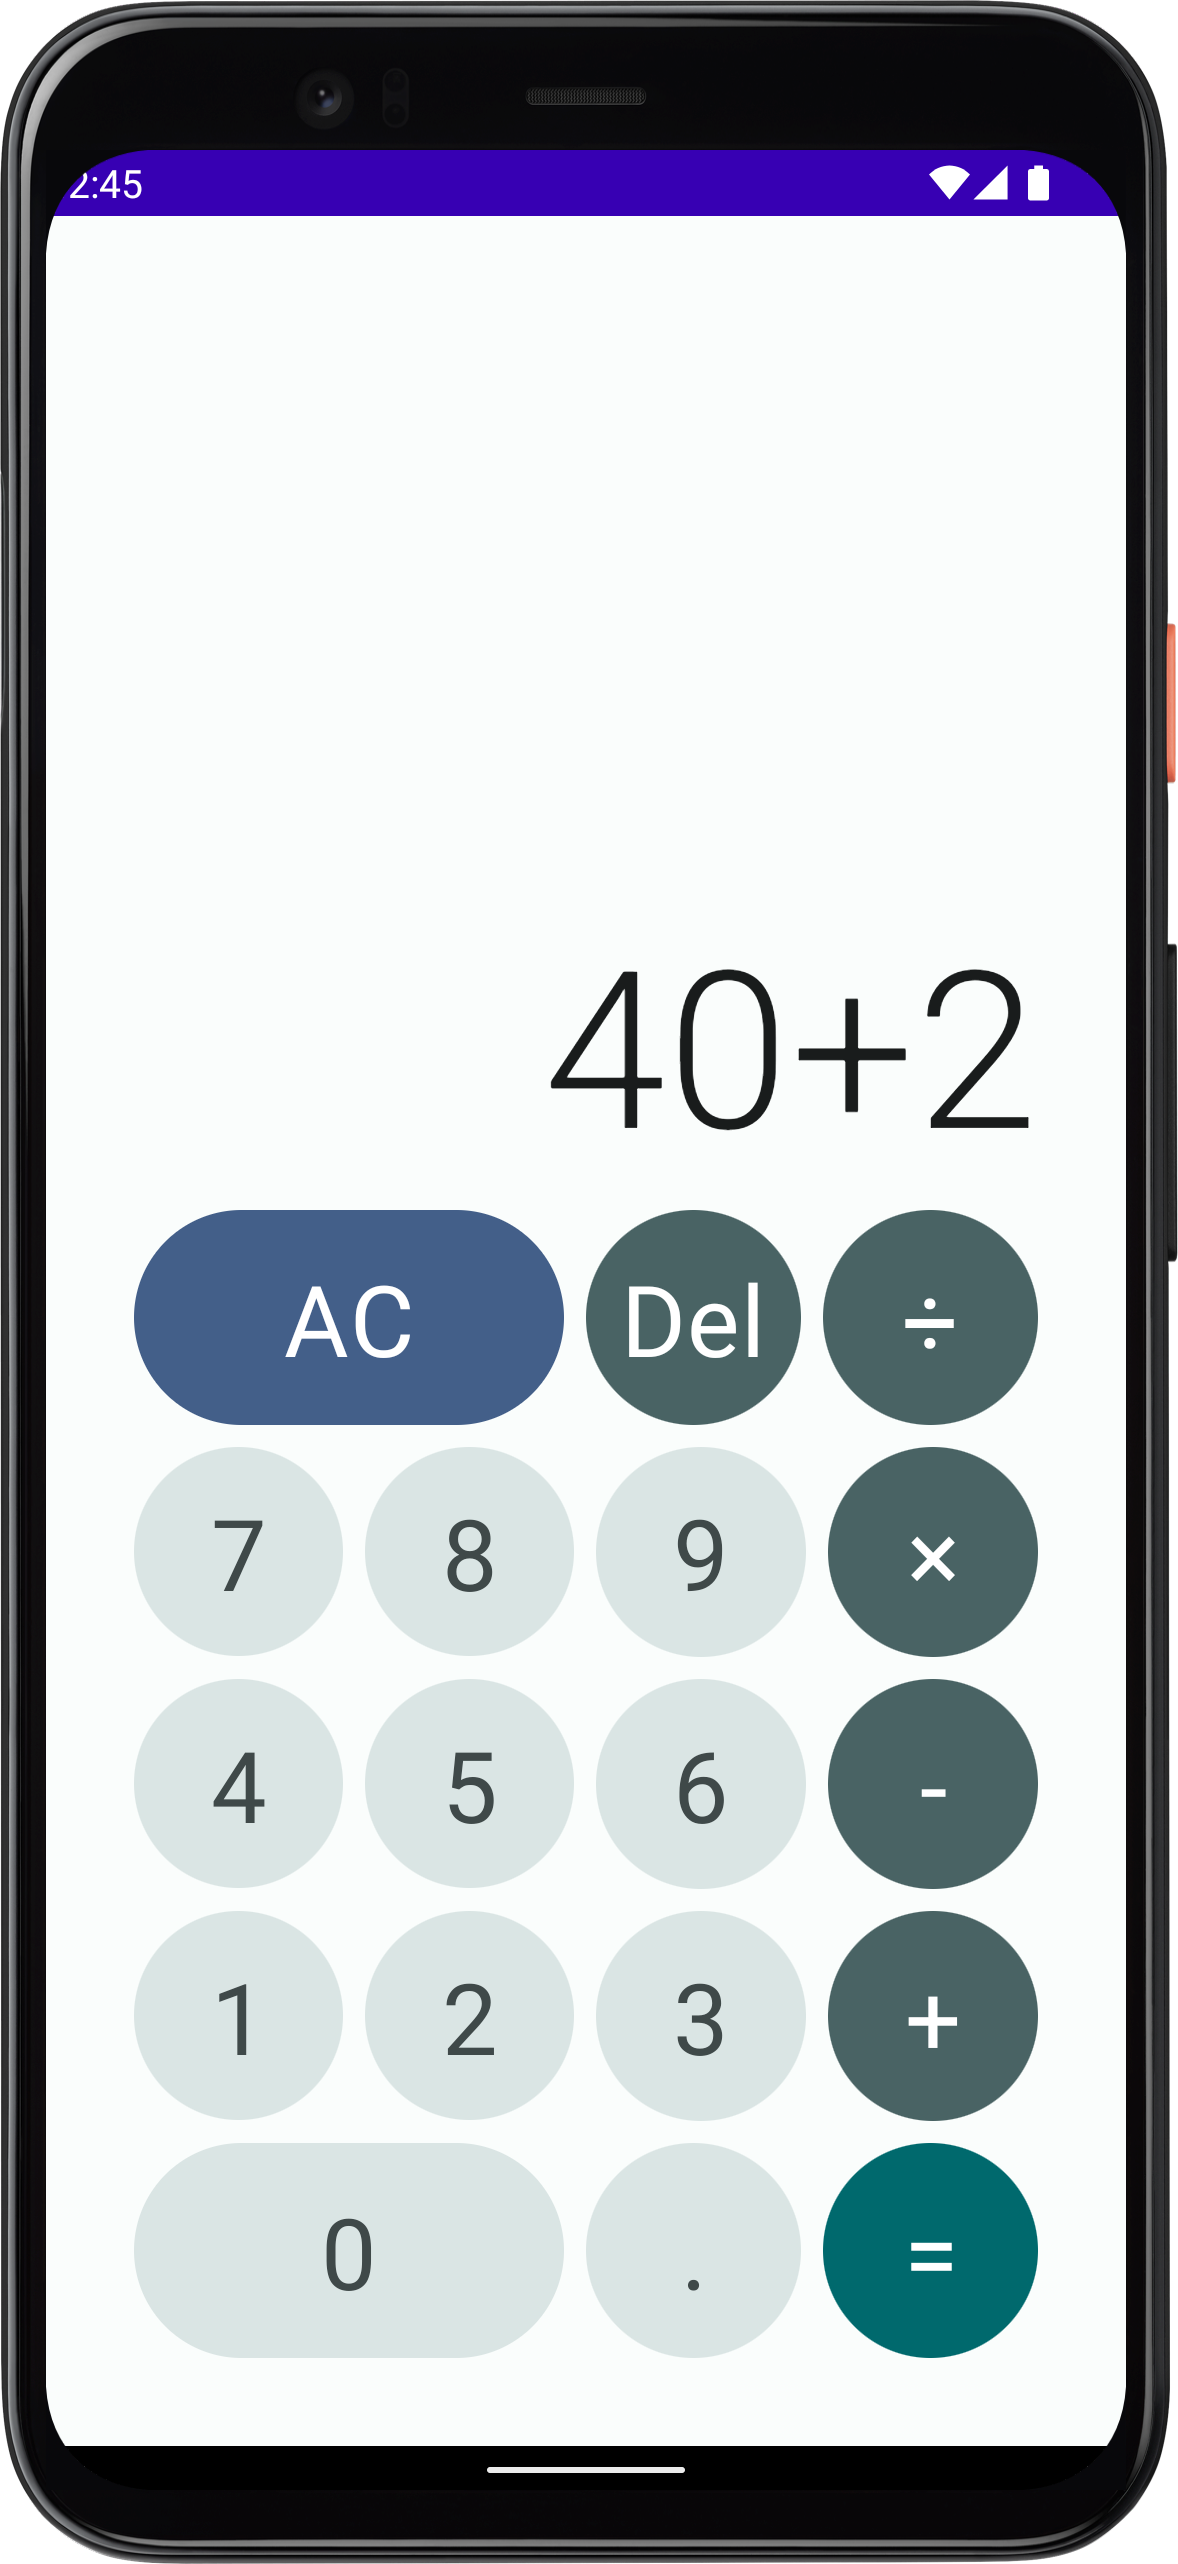
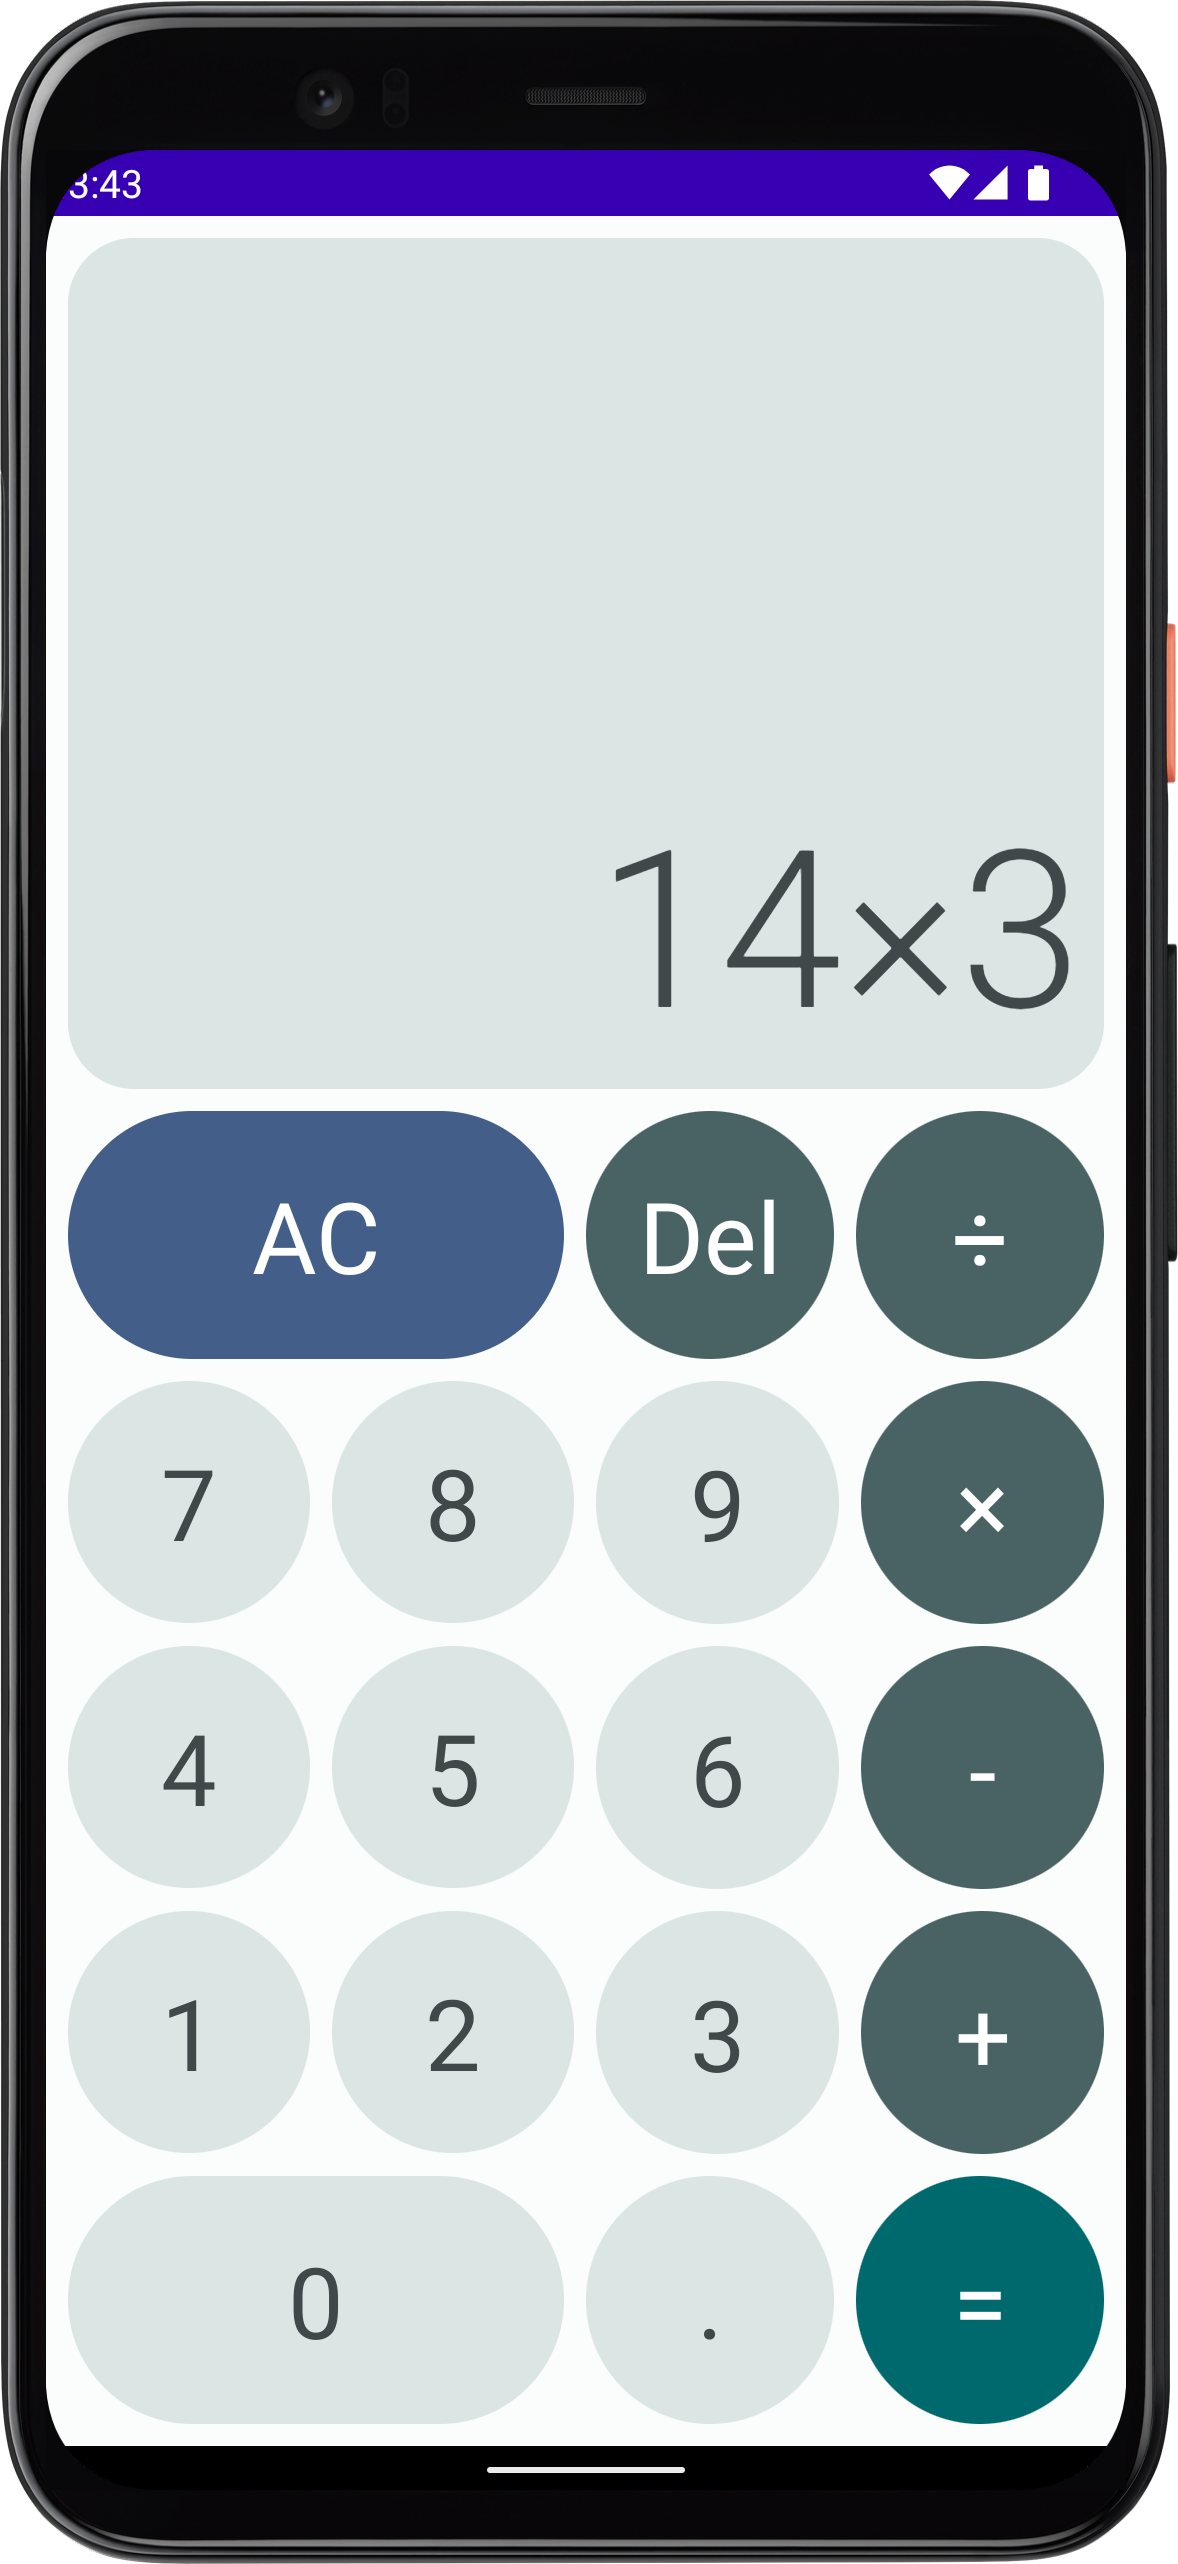
updates

diff --git a/app/src/main/java/com/example/calculator/Calculator.kt b/app/src/main/java/com/example/calculator/Calculator.kt
@@ -2,17 +2,20 @@ package com.example.calculator
 
 import androidx.compose.foundation.background
 import androidx.compose.foundation.layout.*
+import androidx.compose.foundation.shape.RoundedCornerShape
 import androidx.compose.material3.MaterialTheme
 import androidx.compose.material3.Text
 import androidx.compose.runtime.Composable
 import androidx.compose.ui.Alignment
 import androidx.compose.ui.Modifier
+import androidx.compose.ui.draw.clip
 import androidx.compose.ui.graphics.Color
 import androidx.compose.ui.text.font.FontWeight
 import androidx.compose.ui.text.style.TextAlign
 import androidx.compose.ui.unit.Dp
 import androidx.compose.ui.unit.dp
 import androidx.compose.ui.unit.sp
+import com.example.calculator.ui.theme.Shapes
 
 @Composable
 fun Calculator(
@@ -28,17 +31,28 @@ fun Calculator(
                 .align(Alignment.BottomCenter),
             verticalArrangement = Arrangement.spacedBy(buttonSpacing)
         ) {
-            Text(
-                text = state.num1 + state.operation?.symbol.orEmpty() + state.num2,
-                textAlign = TextAlign.End,
+            Box(
                 modifier = Modifier
-                    .fillMaxWidth(),
-                fontWeight = FontWeight.Light,
-                fontSize = 80.sp,
-                lineHeight = 80.sp,
-                color = MaterialTheme.colorScheme.onBackground,
-                maxLines = 2
-            )
+                    .fillMaxWidth()
+                    .weight(1.0f)
+                    .clip(RoundedCornerShape(24.dp))
+                    .background(MaterialTheme.colorScheme.surfaceVariant),
+                contentAlignment = Alignment.BottomEnd
+            ) {
+                Text(
+                    text = state.num1 + state.operation?.symbol.orEmpty() + state.num2,
+                    textAlign = TextAlign.End,
+                    modifier = Modifier
+                        .fillMaxWidth()
+                        .padding(8.dp)
+                    ,
+                    fontWeight = FontWeight.Light,
+                    fontSize = 80.sp,
+                    lineHeight = 80.sp,
+                    color = MaterialTheme.colorScheme.onSurfaceVariant,
+                    maxLines = 2
+                )
+            }
             Row(
                 modifier = Modifier.fillMaxWidth(),
                 horizontalArrangement = Arrangement.spacedBy(buttonSpacing)

diff --git a/app/src/main/java/com/example/calculator/MainActivity.kt b/app/src/main/java/com/example/calculator/MainActivity.kt
@@ -29,7 +29,7 @@ class MainActivity : ComponentActivity() {
                         buttonSpacing = buttonSpacing,
                         modifier = Modifier
                             .fillMaxSize()
-                            .padding(32.dp),
+                            .padding(8.dp),
                         onAction = viewModel::onAction
                     )
                 }

diff --git a/app/src/main/java/com/example/calculator/CalculatorButton.kt b/app/src/main/java/com/example/calculator/CalculatorButton.kt
@@ -34,8 +34,8 @@ fun CalculatorButton(
     ) {
         Text(
             text = symbol,
-            fontSize = 36.sp,
-            color = symbolColor
+            color = symbolColor,
+            style = MaterialTheme.typography.displaySmall
         )
     }
 }

diff --git a/app/src/main/java/com/example/calculator/ui/theme/Shape.kt b/app/src/main/java/com/example/calculator/ui/theme/Shape.kt
@@ -7,5 +7,5 @@ import androidx.compose.ui.unit.dp
 val Shapes = Shapes(
     small = RoundedCornerShape(4.dp),
     medium = RoundedCornerShape(4.dp),
-    large = RoundedCornerShape(0.dp)
+    large = RoundedCornerShape(20.dp)
 )
